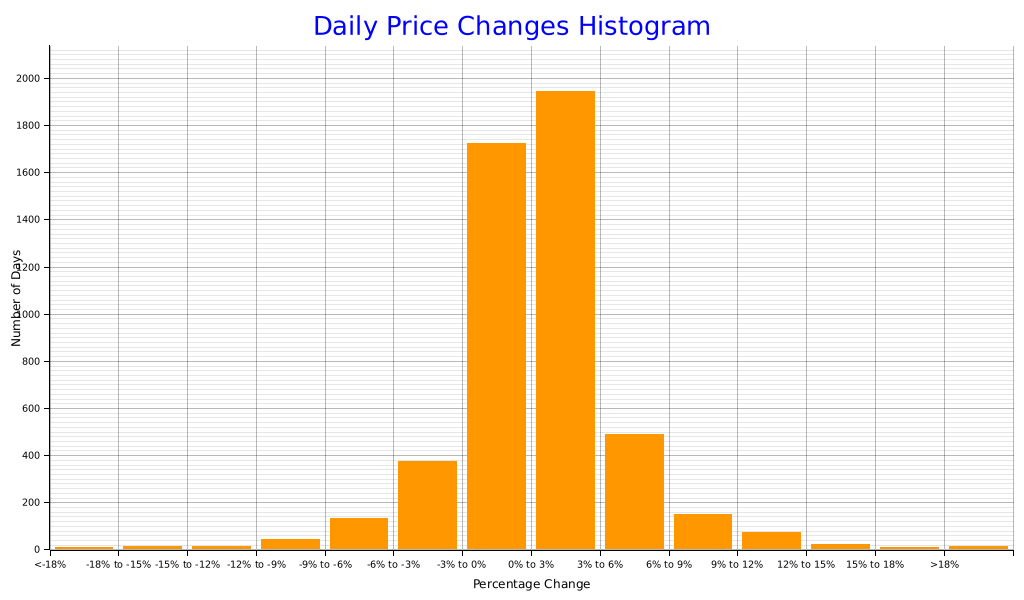
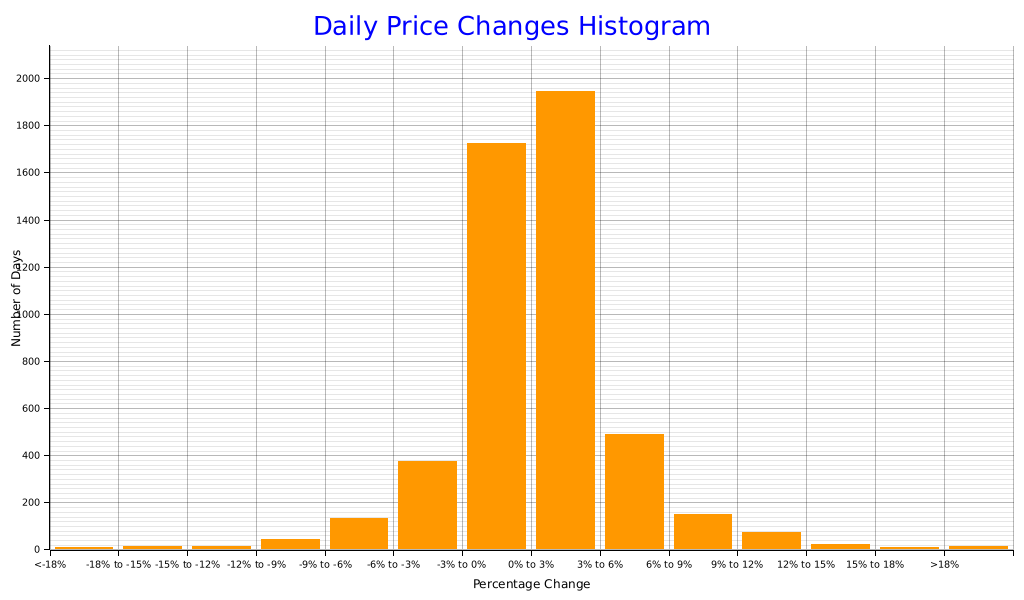
deploy: 33ad19df8a7f642849af7c199b92f08d1cdc9e02

diff --git a/index.html b/index.html
@@ -34,7 +34,7 @@
           <td>124,457.11</td>
           <td>74,436.67</td>
           <td></td>
-          <td>12,134,246,252,544.0</td>
+          <td>12,201,150,644,224.0</td>
         </tr>
         <tr>
           <td class='yearly-summary-year'>2024</td>
@@ -190,7 +190,7 @@
         </tr>
         <tr>
           <td>0% to 3%</td>
-          <td>1943</td>
+          <td>1944</td>
         </tr>
         <tr>
           <td>3% to 6%</td>
@@ -218,7 +218,7 @@
         </tr>
         <tr class='histogram-footer'>
           <td>Total Days</td>
-          <td>5015</td>
+          <td>5016</td>
         </tr>
       </tbody>
     </table>
@@ -227,7 +227,7 @@
     <br><br>
     <a href='https://github.com/bitcoin-tools/btracker'>Link to the report codebase</a>
     <br><br>
-    This report was last updated at 2025-09-02 06:32:53.353325355 UTC.
+    This report was last updated at 2025-09-02 06:58:25.533795180 UTC.
     <br><br>
     <div class='scrollable-table'>
       <table>
@@ -249,14 +249,26 @@
           <tr>
             <td>2025-09-02</td>
             <td>109,243.29</td>
-            <td>110,431.06</td>
+            <td>110,515.56</td>
             <td>108,903.71</td>
-            <td>110,425.14</td>
-            <td class='wma-column'>52,061.82</td>
-            <td>35.28 (0.06 %)</td>
-            <td>49,420.73 (81.0 %)</td>
-            <td>1,527.34 (1.3 %)</td>
-            <td>2,188.42 (2.0 %)</td>
+            <td>110,381.57</td>
+            <td class='wma-column'>52,094.66</td>
+            <td>33.67 (0.06 %)</td>
+            <td>47,155.16 (74.5 %)</td>
+            <td>1,611.84 (1.4 %)</td>
+            <td>1,130.97 (1.0 %)</td>
+          </tr>
+          <tr>
+            <td>2025-09-01</td>
+            <td>108,228.75</td>
+            <td>109,890.58</td>
+            <td>107,271.17</td>
+            <td>109,250.59</td>
+            <td class='wma-column'>52,060.98</td>
+            <td>34.44 (0.06 %)</td>
+            <td>48,246.18 (79.0 %)</td>
+            <td>2,619.40 (2.3 %)</td>
+            <td>1,013.88 (0.9 %)</td>
           </tr>
           <tr>
             <td>2025-08-31</td>
